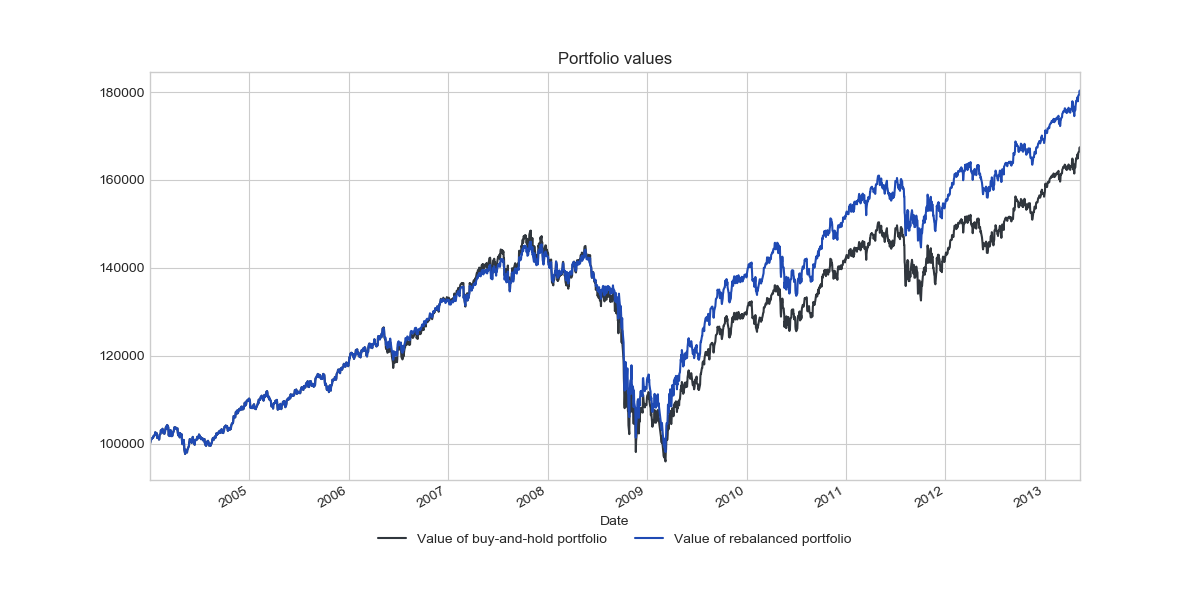
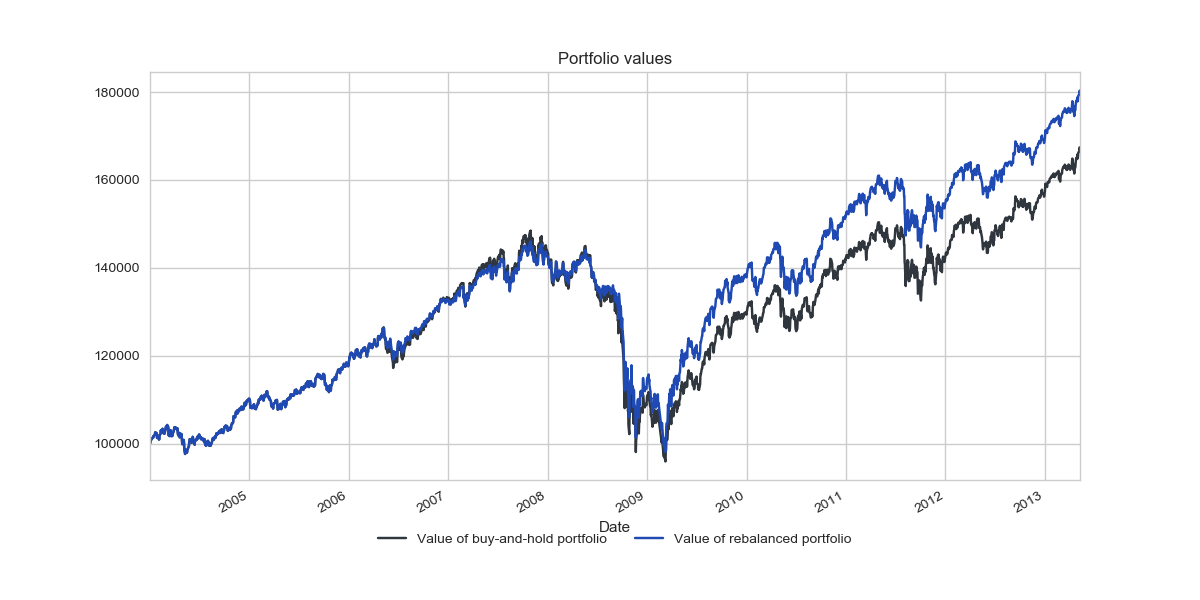
Played with chart formatting

diff --git a/BCS.py b/BCS.py
@@ -142,7 +142,7 @@ def make_images(df_1, df_2, trades_df):
         kind='hist',
         bins=50,
         alpha=0.5,
-        title='Histogram of returns',
+        title='Frequency of returns',
         label='Buy and Hold',
         color=BETTERMENT_GRAY
     )
@@ -230,8 +230,8 @@ def calculate_summary_statistics(df):
 if __name__ == '__main__':
     max_drift = 0.05
     minkowski_p = 5
-    sns.set_style('whitegrid')
     cm.register_cmap('betterment', cmap=colors.ListedColormap(betterment_palette))
+    sns.set(style='whitegrid')
     returns_df = pd.read_csv(
         filepath_or_buffer='portfolio_returns.csv',
         index_col=0,
